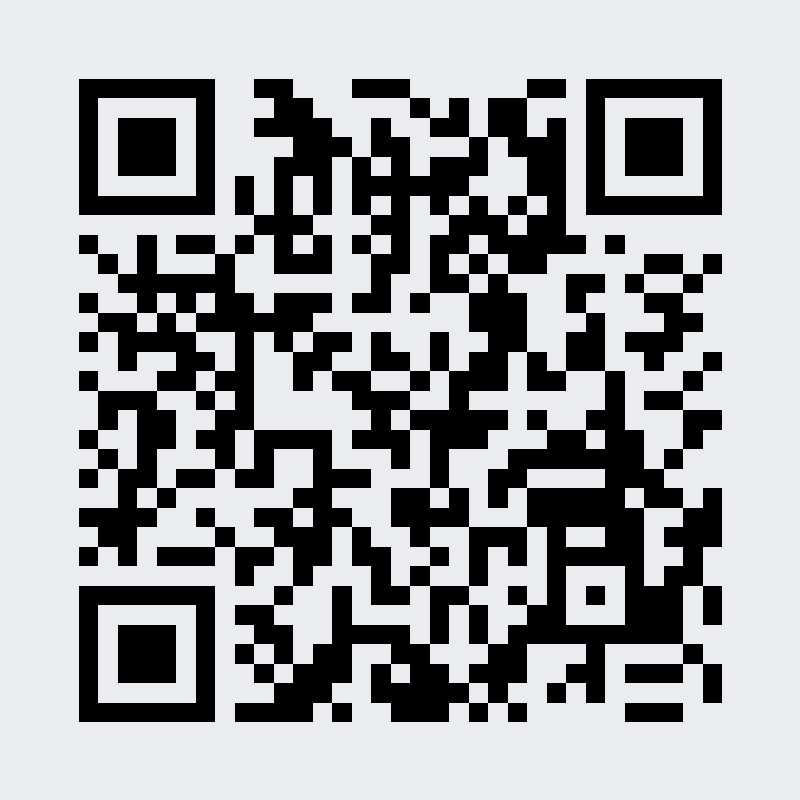
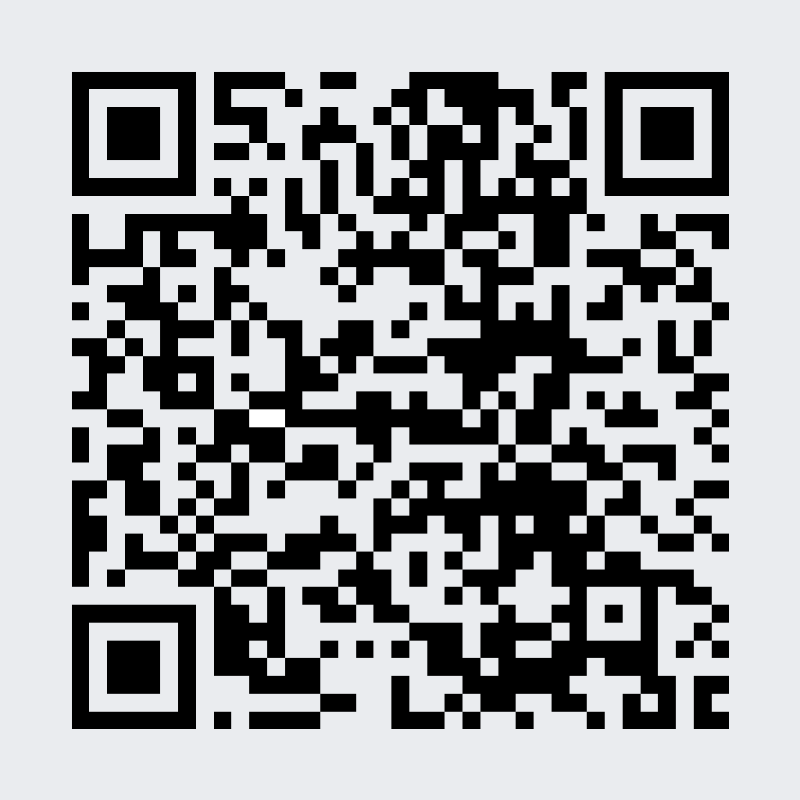
donation moved

diff --git a/index.html b/index.html
@@ -441,8 +441,8 @@
         <div id="donate" class="dropdown">
             <p>Přispěj mi na pivo přes <a onclick="dropDonate()" href="https://btc-slovnik.cz/#lnurl">LNURL</a>:</p>
             <img class="pointer" onclick="clipboardLNURL()" src="https://btc-slovnik.cz/img/lnurl.png" alt="LNURL" />
-            <p onclick="clipboardLNURL()" class="lnurl pointer">LNURL1DP68GURN8GHJ7URP0YHXYARRWDKX7ANWD94JUCM69AKXUATJD3CZ7CTSDYHHVVF0D3H82UNV9UCS5SXUCE</p>
-            <a class="invoice" rel=”nofollow” href="https://pay.btcslovnik.cz/tipjar/1">Nebo mi pošli tip přes mojí lightning bránu.</a>
+            <p onclick="clipboardLNURL()" class="lnurl pointer">LNURL1DP68GURN8GHJ7MRWVF5HGUEWVF6XXUMVDAMXU6TT9E3H5TMVDE6HYMRS9ASHQ6F0WCCJ7MRWW4EXCTE3Q8K275</p>
+            <a class="invoice" rel=”nofollow” href="https://lnbits.btcslovnik.cz/tipjar/1">Nebo mi pošli tip přes mojí lightning bránu.</a>
         </div>
     </footer>
     <script src="https://btc-slovnik.cz/drop.js"></script>

diff --git a/pages/block.html b/pages/block.html
@@ -121,8 +121,8 @@
     <div id="donate" class="dropdown">
       <p>Přispěj mi na pivo přes LNURL:</p>
       <img class="pointer" onclick="clipboardLNURL()" src="https://btc-slovnik.cz/img/lnurl.png" alt="LNURL" />
-      <p onclick="clipboardLNURL()" class="lnurl pointer">LNURL1DP68GURN8GHJ7URP0YHXYARRWDKX7ANWD94JUCM69AKXUATJD3CZ7CTSDYHHVVF0D3H82UNV9UCS5SXUCE</p>
-      <a class="invoice" rel=”nofollow” href="https://pay.btcslovnik.cz/tipjar/1">Nebo mi pošli tip přes mojí lightning bránu.</a>
+      <p onclick="clipboardLNURL()" class="lnurl pointer">LNURL1DP68GURN8GHJ7MRWVF5HGUEWVF6XXUMVDAMXU6TT9E3H5TMVDE6HYMRS9ASHQ6F0WCCJ7MRWW4EXCTE3Q8K275</p>
+      <a class="invoice" rel=”nofollow” href="https://lnbits.btcslovnik.cz/tipjar/1">Nebo mi pošli tip přes mojí lightning bránu.</a>
     </div>
   </footer>
   <script src="https://btc-slovnik.cz/pages/javascript.js"></script>

diff --git a/pages/wallet.html b/pages/wallet.html
@@ -85,8 +85,8 @@
     <div id="donate" class="dropdown">
         <p>Přispěj mi na pivo přes LNURL:</p>
         <img class="pointer" onclick="clipboardLNURL()" src="https://btc-slovnik.cz/img/lnurl.png" alt="LNURL" />
-        <p onclick="clipboardLNURL()" class="lnurl pointer">LNURL1DP68GURN8GHJ7URP0YHXYARRWDKX7ANWD94JUCM69AKXUATJD3CZ7CTSDYHHVVF0D3H82UNV9UCS5SXUCE</p>
-        <a class="invoice" rel=”nofollow” href="https://pay.btcslovnik.cz/tipjar/1">Nebo mi pošli tip přes mojí lightning bránu.</a>
+        <p onclick="clipboardLNURL()" class="lnurl pointer">LNURL1DP68GURN8GHJ7MRWVF5HGUEWVF6XXUMVDAMXU6TT9E3H5TMVDE6HYMRS9ASHQ6F0WCCJ7MRWW4EXCTE3Q8K275</p>
+        <a class="invoice" rel=”nofollow” href="https://lnbits.btcslovnik.cz/tipjar/1">Nebo mi pošli tip přes mojí lightning bránu.</a>
     </div>
   </footer>
   <script src="https://btc-slovnik.cz/drop.js"></script>

diff --git a/pages/crypto.html b/pages/crypto.html
@@ -112,8 +112,8 @@
     <div id="donate" class="dropdown">
       <p>Přispěj mi na pivo přes LNURL:</p>
       <img class="pointer" onclick="clipboardLNURL()" src="https://btc-slovnik.cz/img/lnurl.png" alt="LNURL" />
-      <p onclick="clipboardLNURL()" class="lnurl pointer">LNURL1DP68GURN8GHJ7URP0YHXYARRWDKX7ANWD94JUCM69AKXUATJD3CZ7CTSDYHHVVF0D3H82UNV9UCS5SXUCE</p>
-      <a class="invoice" rel=”nofollow” href="https://pay.btcslovnik.cz/tipjar/1">Nebo mi pošli tip přes mojí lightning bránu.</a>
+      <p onclick="clipboardLNURL()" class="lnurl pointer">LNURL1DP68GURN8GHJ7MRWVF5HGUEWVF6XXUMVDAMXU6TT9E3H5TMVDE6HYMRS9ASHQ6F0WCCJ7MRWW4EXCTE3Q8K275</p>
+      <a class="invoice" rel=”nofollow” href="https://lnbits.btcslovnik.cz/tipjar/1">Nebo mi pošli tip přes mojí lightning bránu.</a>
     </div>
   </footer>
   <script src="https://btc-slovnik.cz/drop.js"></script>

diff --git a/pages/lightning.html b/pages/lightning.html
@@ -131,8 +131,8 @@
     <div id="donate" class="dropdown">
       <p>Přispěj mi na pivo přes LNURL:</p>
       <img class="pointer" onclick="clipboardLNURL()" src="https://btc-slovnik.cz/img/lnurl.png" alt="LNURL" />
-      <p onclick="clipboardLNURL()" class="lnurl pointer">LNURL1DP68GURN8GHJ7URP0YHXYARRWDKX7ANWD94JUCM69AKXUATJD3CZ7CTSDYHHVVF0D3H82UNV9UCS5SXUCE</p>
-      <a class="invoice" rel=”nofollow” href="https://pay.btcslovnik.cz/tipjar/1">Nebo mi pošli tip přes mojí lightning bránu.</a>
+      <p onclick="clipboardLNURL()" class="lnurl pointer">LNURL1DP68GURN8GHJ7MRWVF5HGUEWVF6XXUMVDAMXU6TT9E3H5TMVDE6HYMRS9ASHQ6F0WCCJ7MRWW4EXCTE3Q8K275</p>
+      <a class="invoice" rel=”nofollow” href="https://lnbits.btcslovnik.cz/tipjar/1">Nebo mi pošli tip přes mojí lightning bránu.</a>
     </div>
   </footer>
   <script src="https://btc-slovnik.cz/drop.js"></script>

diff --git a/pages/taproot.html b/pages/taproot.html
@@ -48,8 +48,8 @@
     <div id="donate" class="dropdown">
       <p>Přispěj mi na pivo přes LNURL:</p>
       <img class="pointer" onclick="clipboardLNURL()" src="https://btc-slovnik.cz/img/lnurl.png" alt="LNURL" />
-      <p onclick="clipboardLNURL()" class="lnurl pointer">LNURL1DP68GURN8GHJ7URP0YHXYARRWDKX7ANWD94JUCM69AKXUATJD3CZ7CTSDYHHVVF0D3H82UNV9UCS5SXUCE</p>
-      <a class="invoice" rel=”nofollow” href="https://pay.btcslovnik.cz/tipjar/1">Nebo mi pošli tip přes mojí lightning bránu.</a>
+      <p onclick="clipboardLNURL()" class="lnurl pointer">LNURL1DP68GURN8GHJ7MRWVF5HGUEWVF6XXUMVDAMXU6TT9E3H5TMVDE6HYMRS9ASHQ6F0WCCJ7MRWW4EXCTE3Q8K275</p>
+      <a class="invoice" rel=”nofollow” href="https://lnbits.btcslovnik.cz/tipjar/1">Nebo mi pošli tip přes mojí lightning bránu.</a>
     </div>
   </footer>
   <script src="https://btc-slovnik.cz/drop.js"></script>

diff --git a/pages/transaction.html b/pages/transaction.html
@@ -223,8 +223,8 @@
   <div id="donate" class="dropdown">
     <p>Přispěj mi na pivo přes LNURL:</p>
     <img class="pointer" onclick="clipboardLNURL()" src="https://btc-slovnik.cz/img/lnurl.png" alt="LNURL" />
-    <p onclick="clipboardLNURL()" class="lnurl pointer">LNURL1DP68GURN8GHJ7URP0YHXYARRWDKX7ANWD94JUCM69AKXUATJD3CZ7CTSDYHHVVF0D3H82UNV9UCS5SXUCE</p>
-    <a class="invoice" rel=”nofollow” href="https://pay.btcslovnik.cz/tipjar/1">Nebo mi pošli tip přes mojí lightning bránu.</a>
+    <p onclick="clipboardLNURL()" class="lnurl pointer">LNURL1DP68GURN8GHJ7MRWVF5HGUEWVF6XXUMVDAMXU6TT9E3H5TMVDE6HYMRS9ASHQ6F0WCCJ7MRWW4EXCTE3Q8K275</p>
+    <a class="invoice" rel=”nofollow” href="https://lnbits.btcslovnik.cz/tipjar/1">Nebo mi pošli tip přes mojí lightning bránu.</a>
   </div>
 </footer>
 <script src="https://btc-slovnik.cz/pages/javascript.js"></script>

diff --git a/pages/donate.html b/pages/donate.html
@@ -22,7 +22,7 @@
     <div class="container2">
         <h2>Příspěvek autorovi prostřednictvím Lightning network.</h2>
         <div>
-            <iframe class="donate" src="https://pay.btcslovnik.cz/tipjar/1" title="Tipovací sklenice"></iframe> 
+            <iframe class="donate" src="https://lnbits.btcslovnik.cz/tipjar/1" title="Tipovací sklenice"></iframe> 
         </div>
     </div>
     <footer>
@@ -45,7 +45,7 @@
             const queryString = window.location.search;
             if (queryString == '?a=lntip')
             {
-                window.location.replace('lightning:LNURL1DP68GURN8GHJ7URP0YHXYARRWDKX7ANWD94JUCM69AKXUATJD3CZ7CTSDYHHVVF0D3H82UNV9UCS5SXUCE');
+                window.location.replace('lightning:LNURL1DP68GURN8GHJ7MRWVF5HGUEWVF6XXUMVDAMXU6TT9E3H5TMVDE6HYMRS9ASHQ6F0WCCJ7MRWW4EXCTE3Q8K275');
             }
         }
     </script>

diff --git a/pages/math.html b/pages/math.html
@@ -228,8 +228,8 @@
       <p>Přispěj mi na pivo přes LNURL:</p>
       <img class="pointer" onclick="clipboardLNURL()" src="https://btc-slovnik.cz/img/lnurl.png" alt="LNURL" />
       <p onclick="clipboardLNURL()" class="lnurl pointer">
-        LNURL1DP68GURN8GHJ7URP0YHXYARRWDKX7ANWD94JUCM69AKXUATJD3CZ7CTSDYHHVVF0D3H82UNV9UCS5SXUCE</p>
-      <a class="invoice" rel=”nofollow” href="https://pay.btcslovnik.cz/tipjar/1">Standardní LN invoice možno
+        LNURL1DP68GURN8GHJ7MRWVF5HGUEWVF6XXUMVDAMXU6TT9E3H5TMVDE6HYMRS9ASHQ6F0WCCJ7MRWW4EXCTE3Q8K275</p>
+      <a class="invoice" rel=”nofollow” href="https://lnbits.btcslovnik.cz/tipjar/1">Standardní LN invoice možno
         vygenerovat zde.</a>
     </div>
   </footer>

diff --git a/functions.js b/functions.js
@@ -49,7 +49,7 @@ function clipboardLink(val) {
 } 
 
 function clipboardLNURL() {
[2 lines of base64/hex data omitted]
 }
 
 function onload() {
